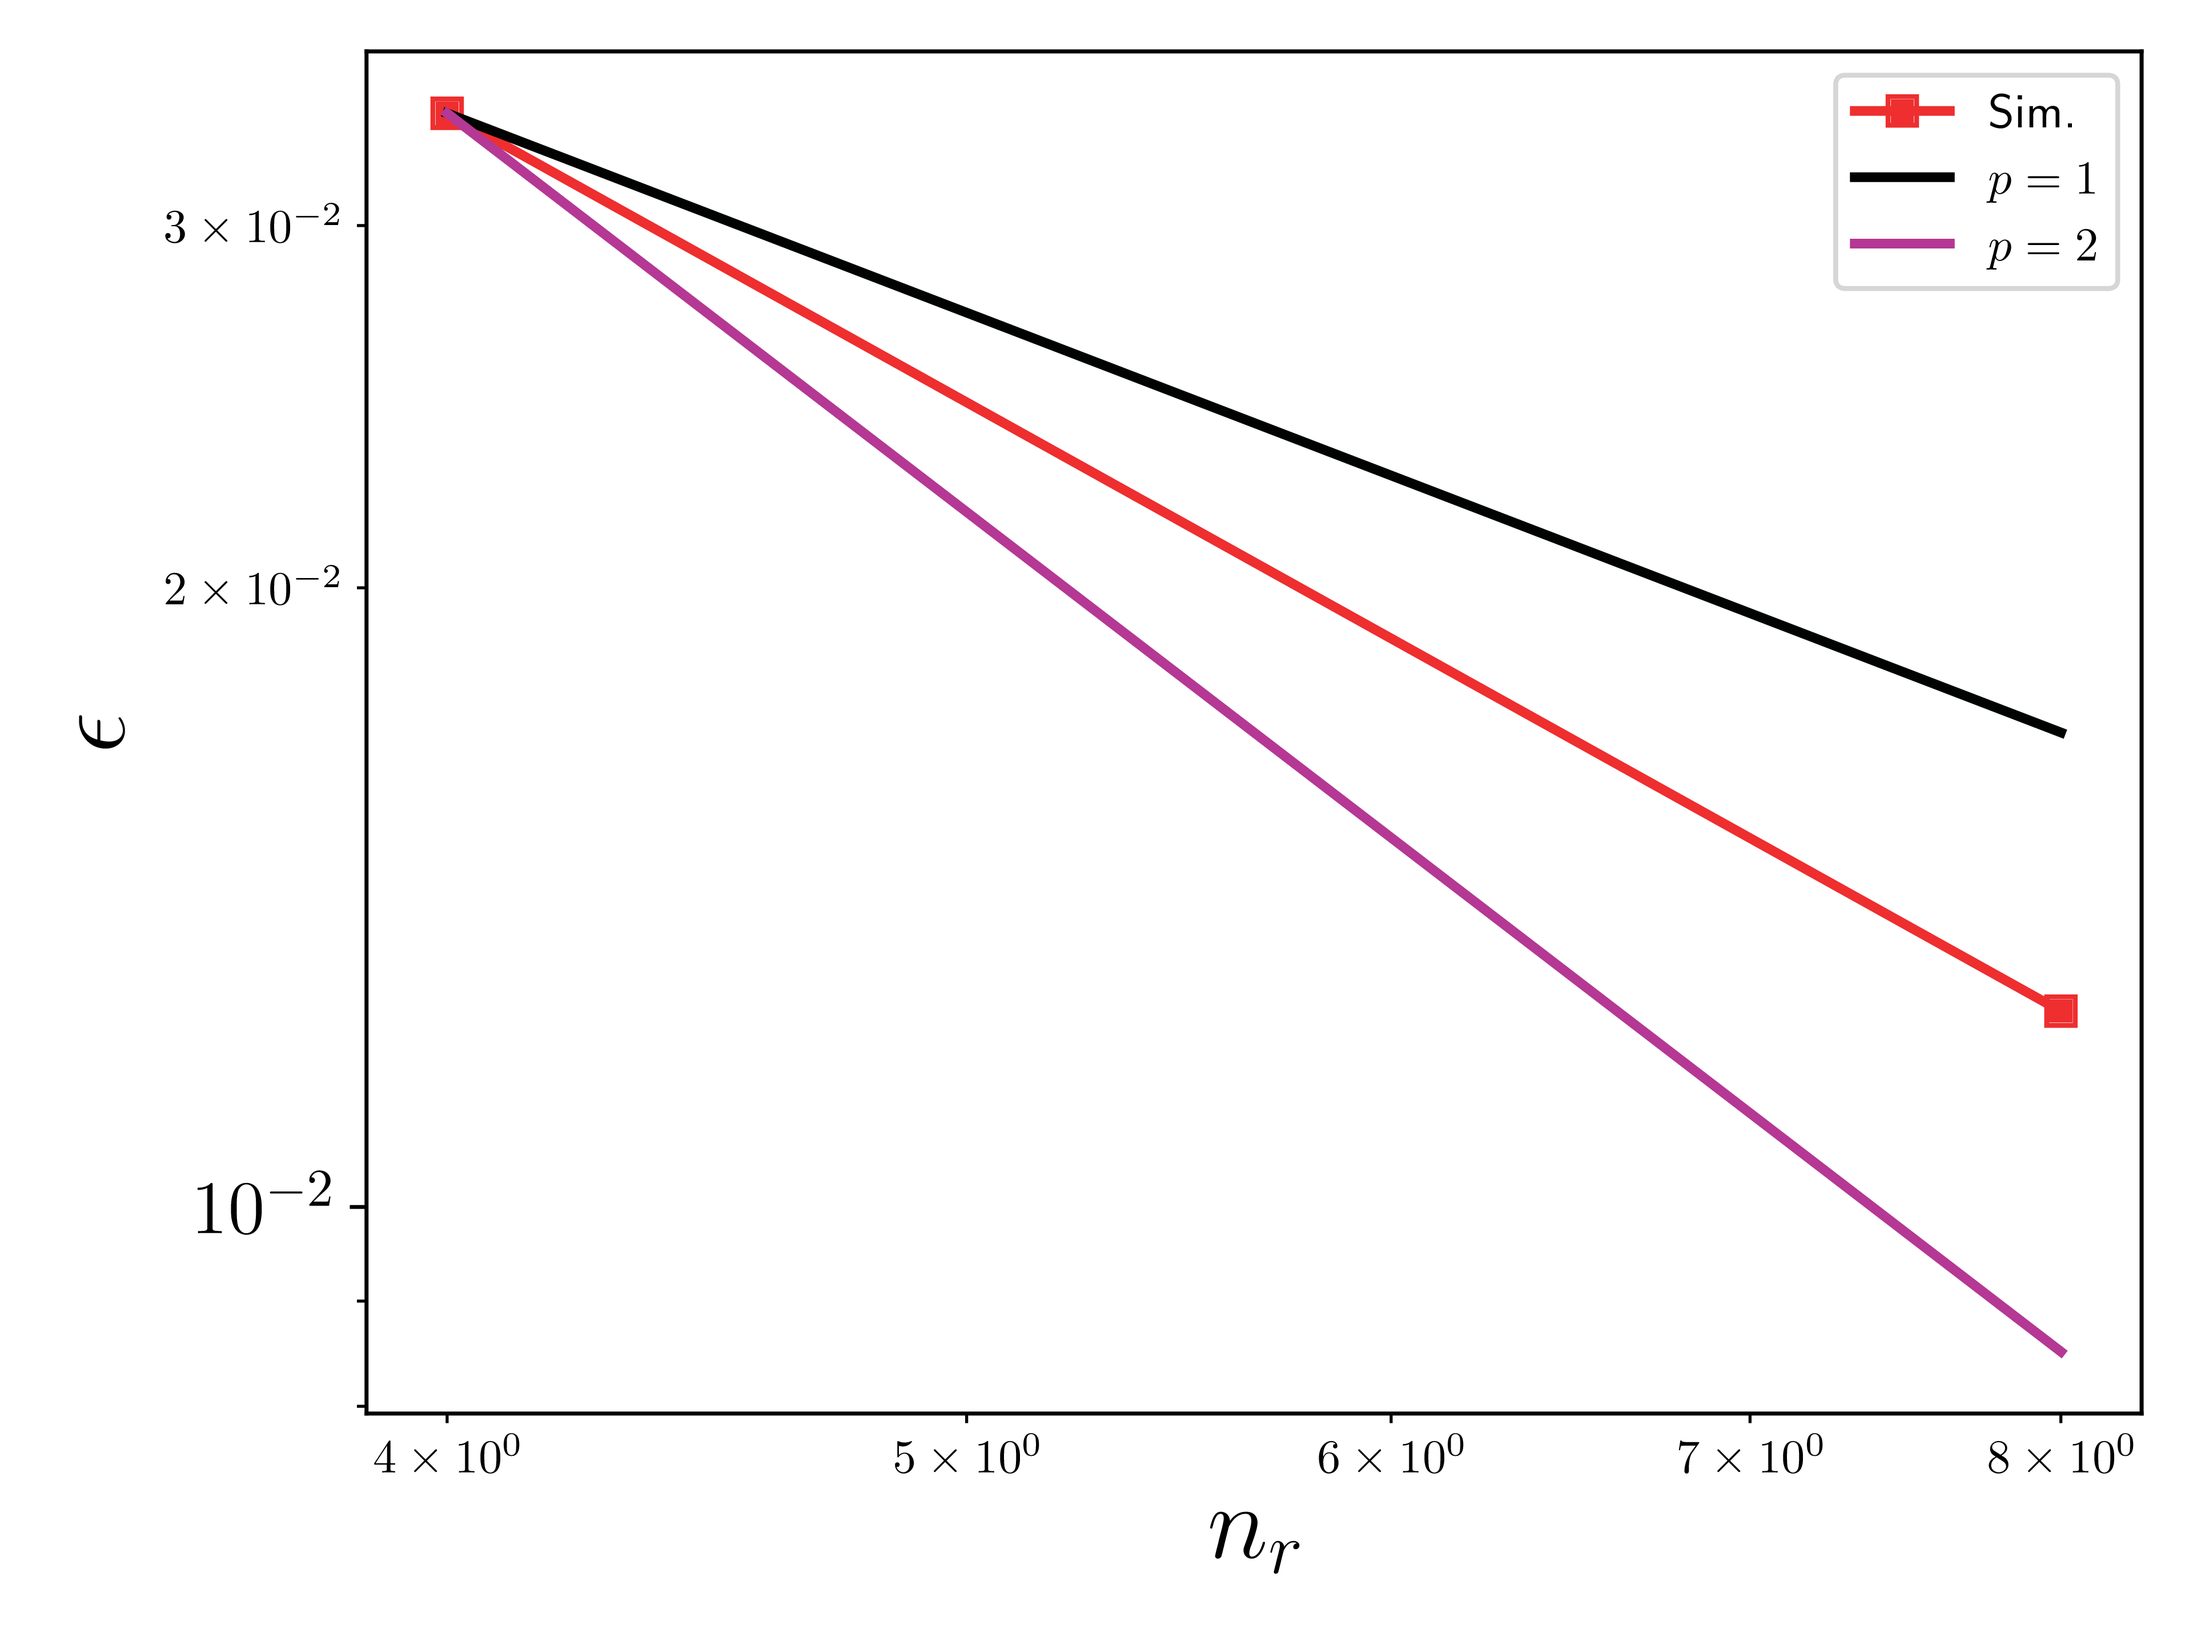
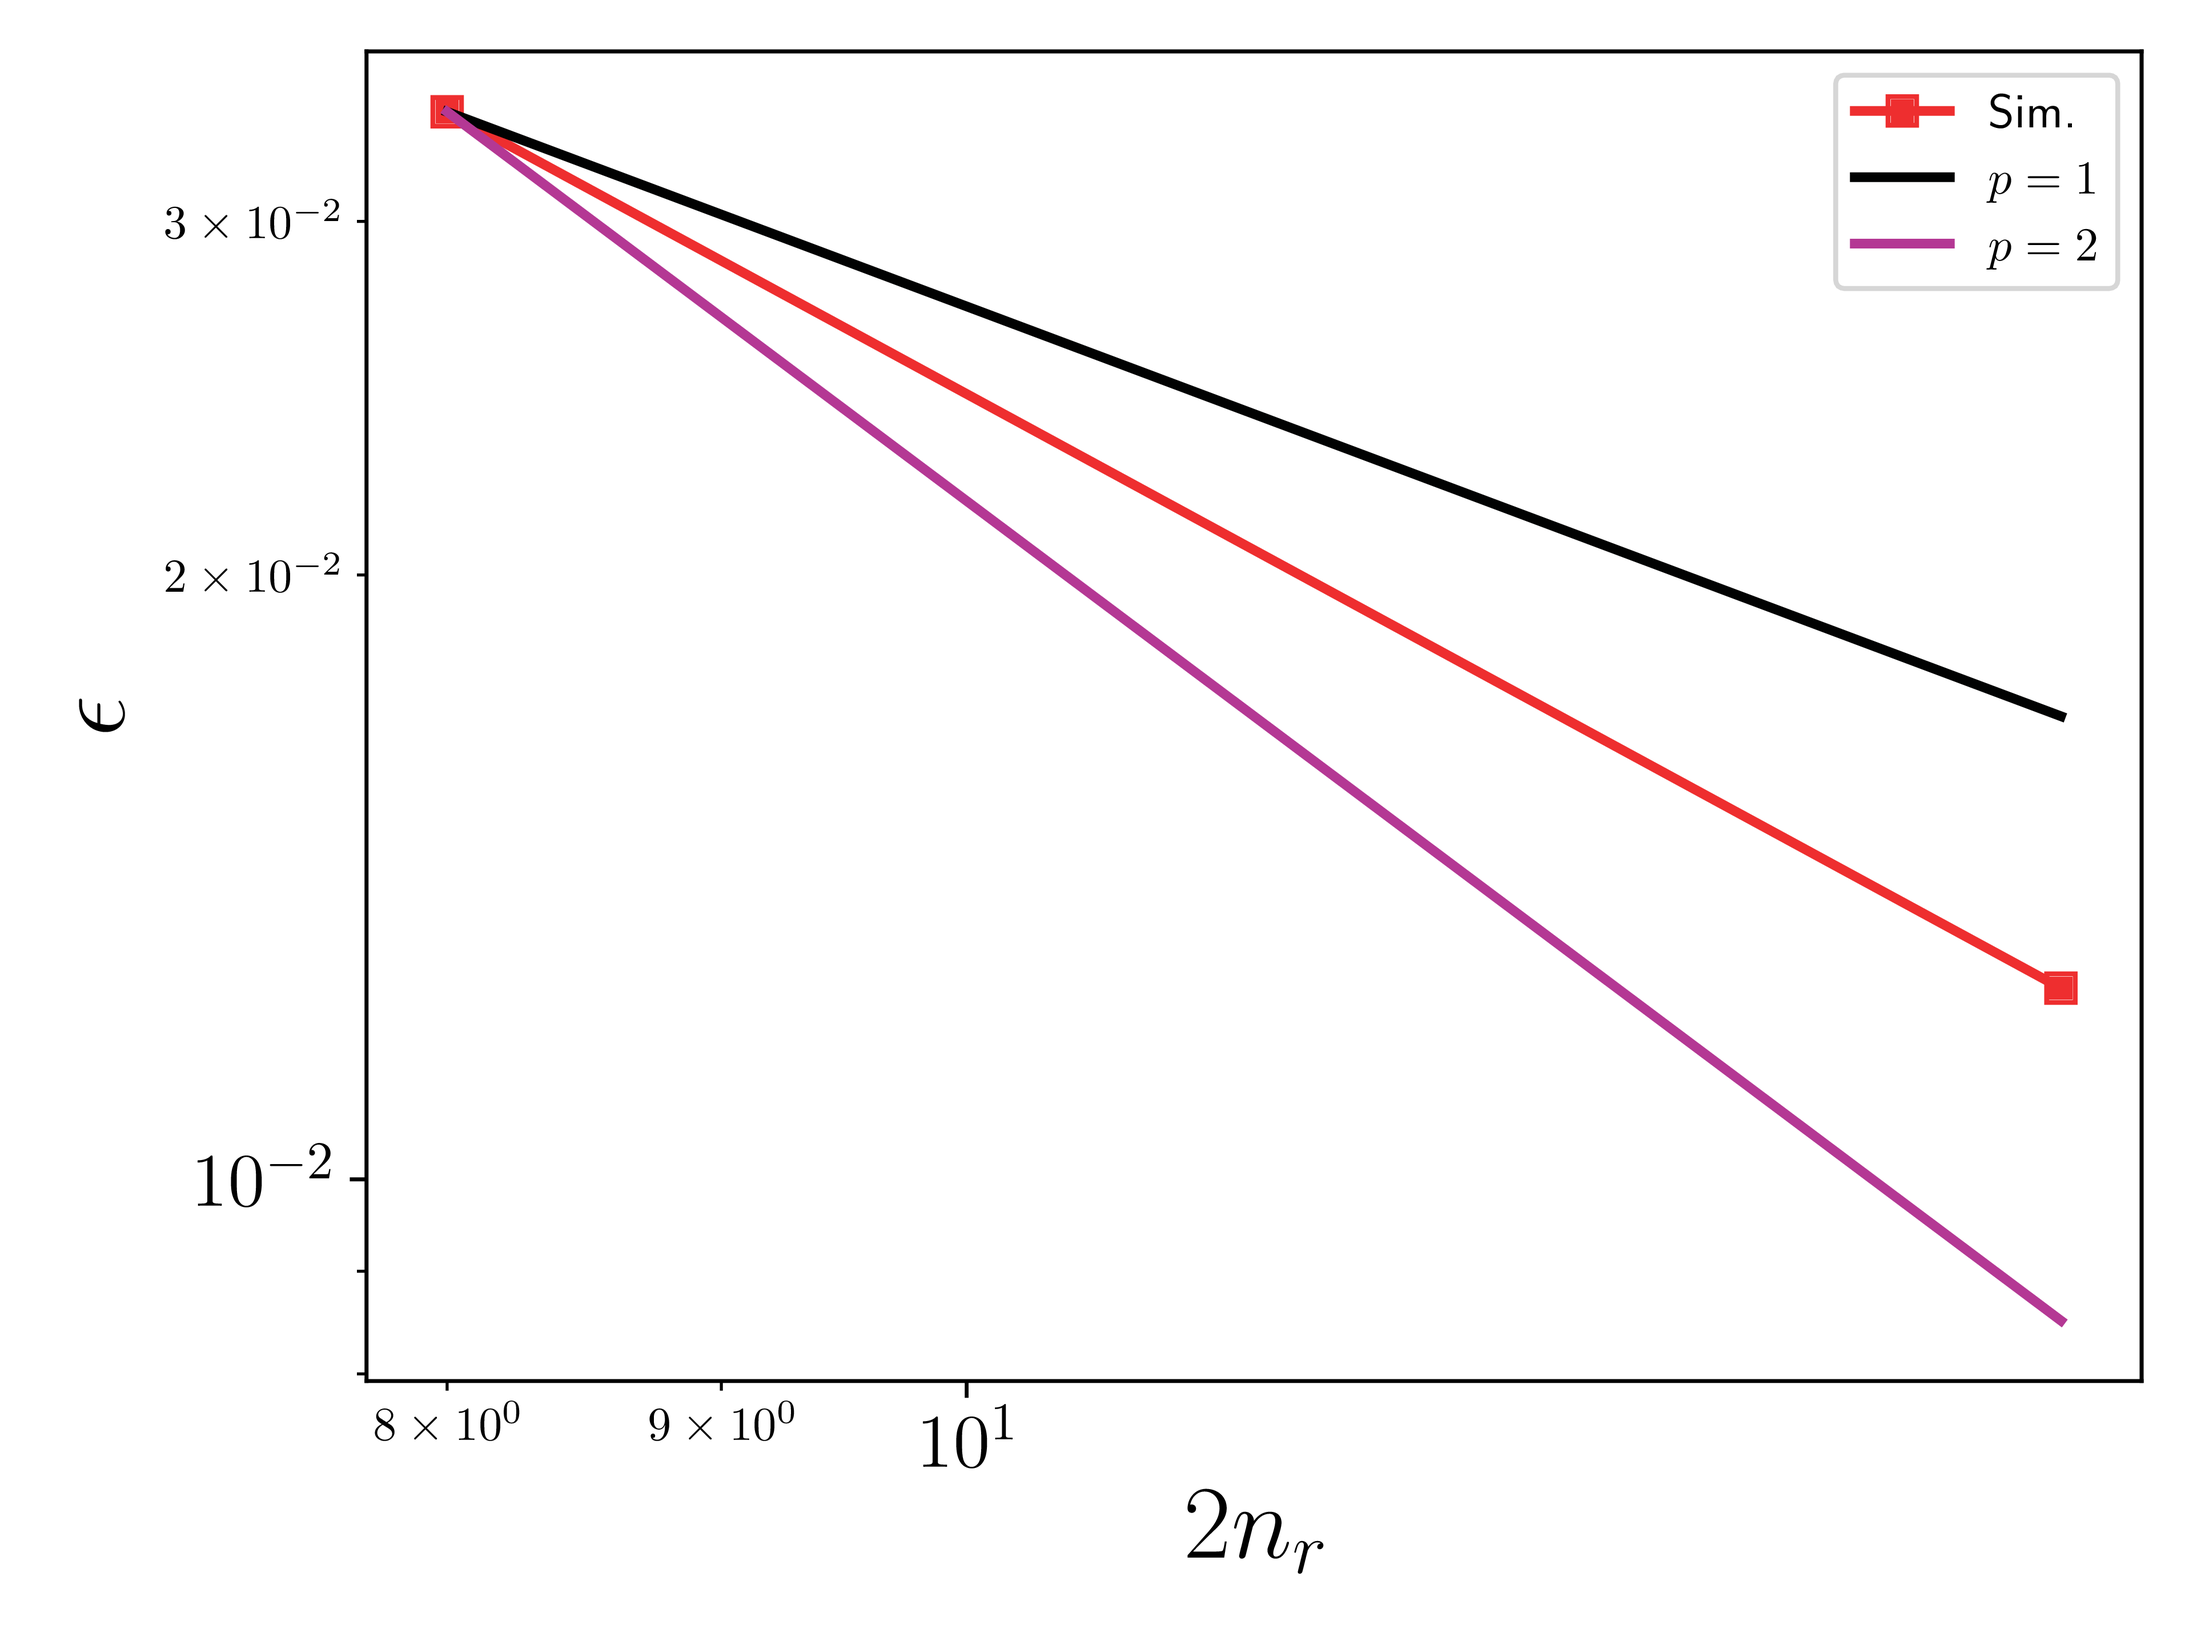
C9 documentation

diff --git a/ExecCpp/EBVerification/C9/plotter.py b/ExecCpp/EBVerification/C9/plotter.py
@@ -44,6 +44,10 @@ def parse_ic(fname):
     return df.to_dict("records")[0]
 
 
+def theory_ooa(order, res, orig):
+    return orig * (res[0] / res) ** order
+
+
 if __name__ == "__main__":
     parser = argparse.ArgumentParser(description="Extract data")
     parser.add_argument(
@@ -88,10 +92,9 @@ if __name__ == "__main__":
         label=r"Sim.",
     )
 
-    theory_order = 1
-    theory = (errors[1, 0] * errors[0, 0] / errors[0, :]) ** theory_order
+    p1 = theory_ooa(1, errors[0, :], errors[1, 0])
     plt.loglog(
-        errors[0, :], theory, lw=2, color=cmap[-1], label=f"$p={theory_order}",
+        errors[0, :], p1, lw=2, color=cmap[-1], label=f"$p=1$",
     )
 
     print("Estimated order of the error:")
@@ -115,5 +118,6 @@ if __name__ == "__main__":
         plt.ylabel(r"$\epsilon$", fontsize=22)
         plt.setp(ax.get_xmajorticklabels(), fontsize=16)
         plt.setp(ax.get_ymajorticklabels(), fontsize=16)
+        legend = ax.legend(loc="best")
         plt.tight_layout()
         pdf.savefig(dpi=300)

diff --git a/ExecCpp/EBVerification/C10/plotter.py b/ExecCpp/EBVerification/C10/plotter.py
@@ -79,7 +79,7 @@ if __name__ == "__main__":
         df = df[df.xloc == 6.0].reset_index()
 
         res = int(fdir)
-        errors[0, k] = res
+        errors[0, k] = 2 * res
         errors[1, k] = np.sqrt(
             np.sum(
                 (df.x_velocity / ics["umax"] - eval_u_exact(ics, df.y) / ics["umax"])
@@ -152,7 +152,7 @@ if __name__ == "__main__":
 
         plt.figure("error")
         ax = plt.gca()
-        plt.xlabel(r"$n_r$", fontsize=22)
+        plt.xlabel(r"$2 n_r$", fontsize=22)
         plt.ylabel(r"$\epsilon$", fontsize=22)
         plt.setp(ax.get_xmajorticklabels(), fontsize=16)
         plt.setp(ax.get_ymajorticklabels(), fontsize=16)

diff --git a/Docs/sphinx_doc/ebverification/C9/README.rst b/Docs/sphinx_doc/ebverification/C9/README.rst
@@ -1,0 +1,44 @@
+C9. Acoustic wave in cylindrical channel
+~~~~~~~~~~~~~~~~~~~~~~~~~~~~~~~~~~~~~~~~
+
+Case description
+################
+
+This is the case of an acoustic wave propagating in a cylindrical
+channel. The geometry is a :math:`x`-direction aligned circular
+channel with periodic boundary conditions. The acoustic wave
+propagates along the :math:`x` direction.
+
+The density pulse at the center of the channel is defined as:
+
+.. math::
+   \rho(x) = \rho_0 + \alpha \exp(-(x/\sigma)^2)
+
+The background pressure is set to :math:`100000 erg/cm^3`, the
+background density is set to :math:`\rho_0 = 0.0014 g/cm^3`,
+:math:`\alpha=10^{-4} g/cm^3`, :math:`\sigma=10cm`, and the background
+velocity is set to 0. The length of the channel is 100cm and the
+radius is 5cm. The simulations are performed until the acoustic pulse
+comes back to the center of the channel, :math:`t=0.01s`.
+
+
+Density profiles in the centerline at t=0.01s
+#############################################
+
+.. image:: ./ebverification/C9/rho.png
+   :height: 300pt
+
+:math:`L_2` error norm of velocity
+##################################
+
+The :math:`L_2` error norm for a quantity :math:`s` is defined as
+
+.. math::
+   e_s = \sqrt{ \frac{\int_{-L/2}^{L} (s^h-s^*)^2 \mathrm{d}r}{n_x}}
+
+where :math:`s^h` is the numerical solution, :math:`s^*` is the exact
+solution, and :math:`n_x` is the number of cells in the
+:math:`x`-direction.
+
+.. image:: ./ebverification/C9/error.png
+   :height: 300pt

diff --git a/ExecCpp/EBVerification/C9/README.md b/ExecCpp/EBVerification/C9/README.md
@@ -1,6 +1,9 @@
 # Acoustic pulse in circular channel
 
-## Case description
+Full description and the results of this case can be found in the
+[documentation](https://pelec.readthedocs.io/en/latest/VandV.html#verification-of-eb-pelec).
+
+## Short case description
 
 |                    | description                                                                                                           |
 |:-------------------|:----------------------------------------------------------------------------------------------------------------------|
@@ -10,4 +13,4 @@
 | Multi-level        | no                                                                                                                    |
 | Metric             | acoustic pulse should match analytic solution                                                                         |
 | Reference          | adapted from [here](https://ccse.lbl.gov/people/motheau/Manuscripts_website/MOTHEAU_JCP_2018_Accepted_Manuscript.pdf) |
-## Results
+

diff --git a/Docs/sphinx_doc/ebverification/ebverification.rst b/Docs/sphinx_doc/ebverification/ebverification.rst
@@ -21,4 +21,6 @@ description and the source code for these test cases are included
 `here
 <https://github.com/AMReX-Combustion/PeleC/blob/development/ExecCpp/EBVerification/README.md>`_.
 
+.. include:: ./ebverification/C9/README.rst
+
 .. include:: ./ebverification/C10/README.rst
